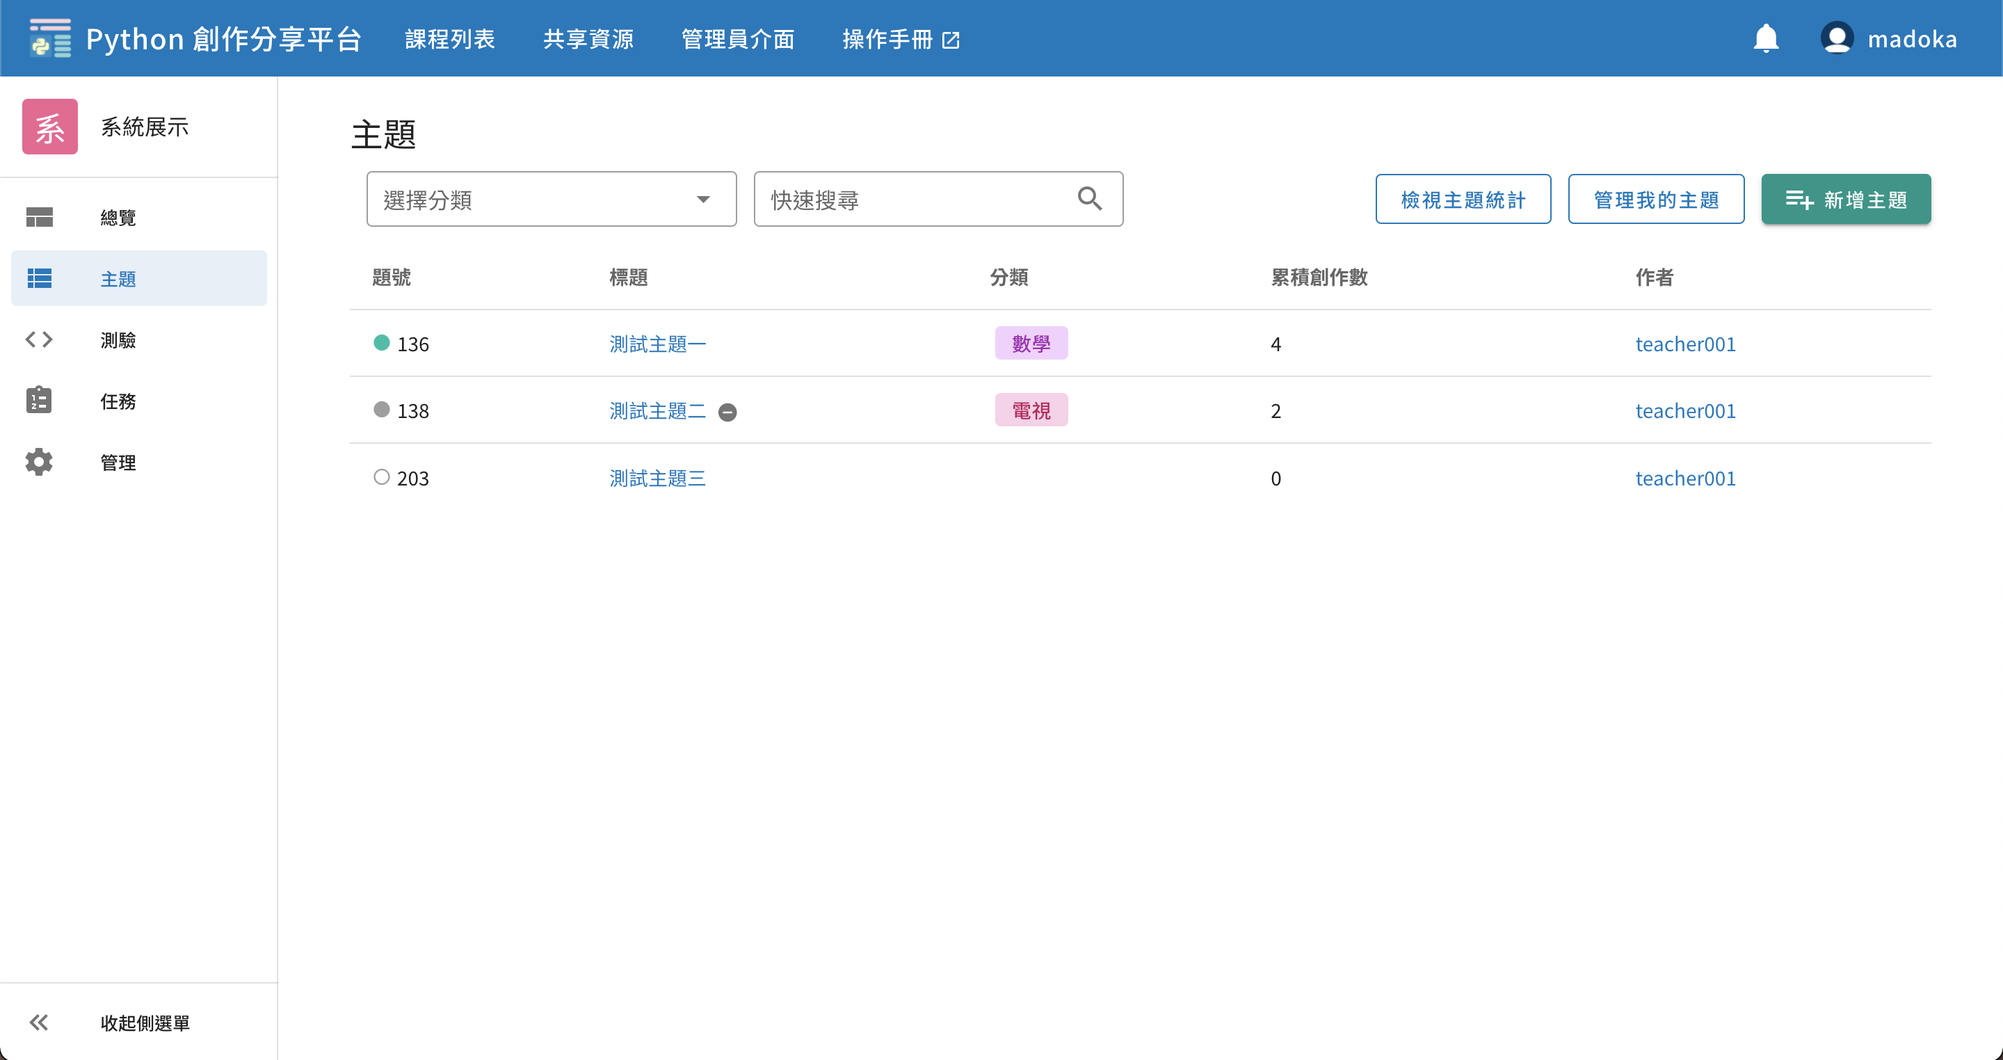
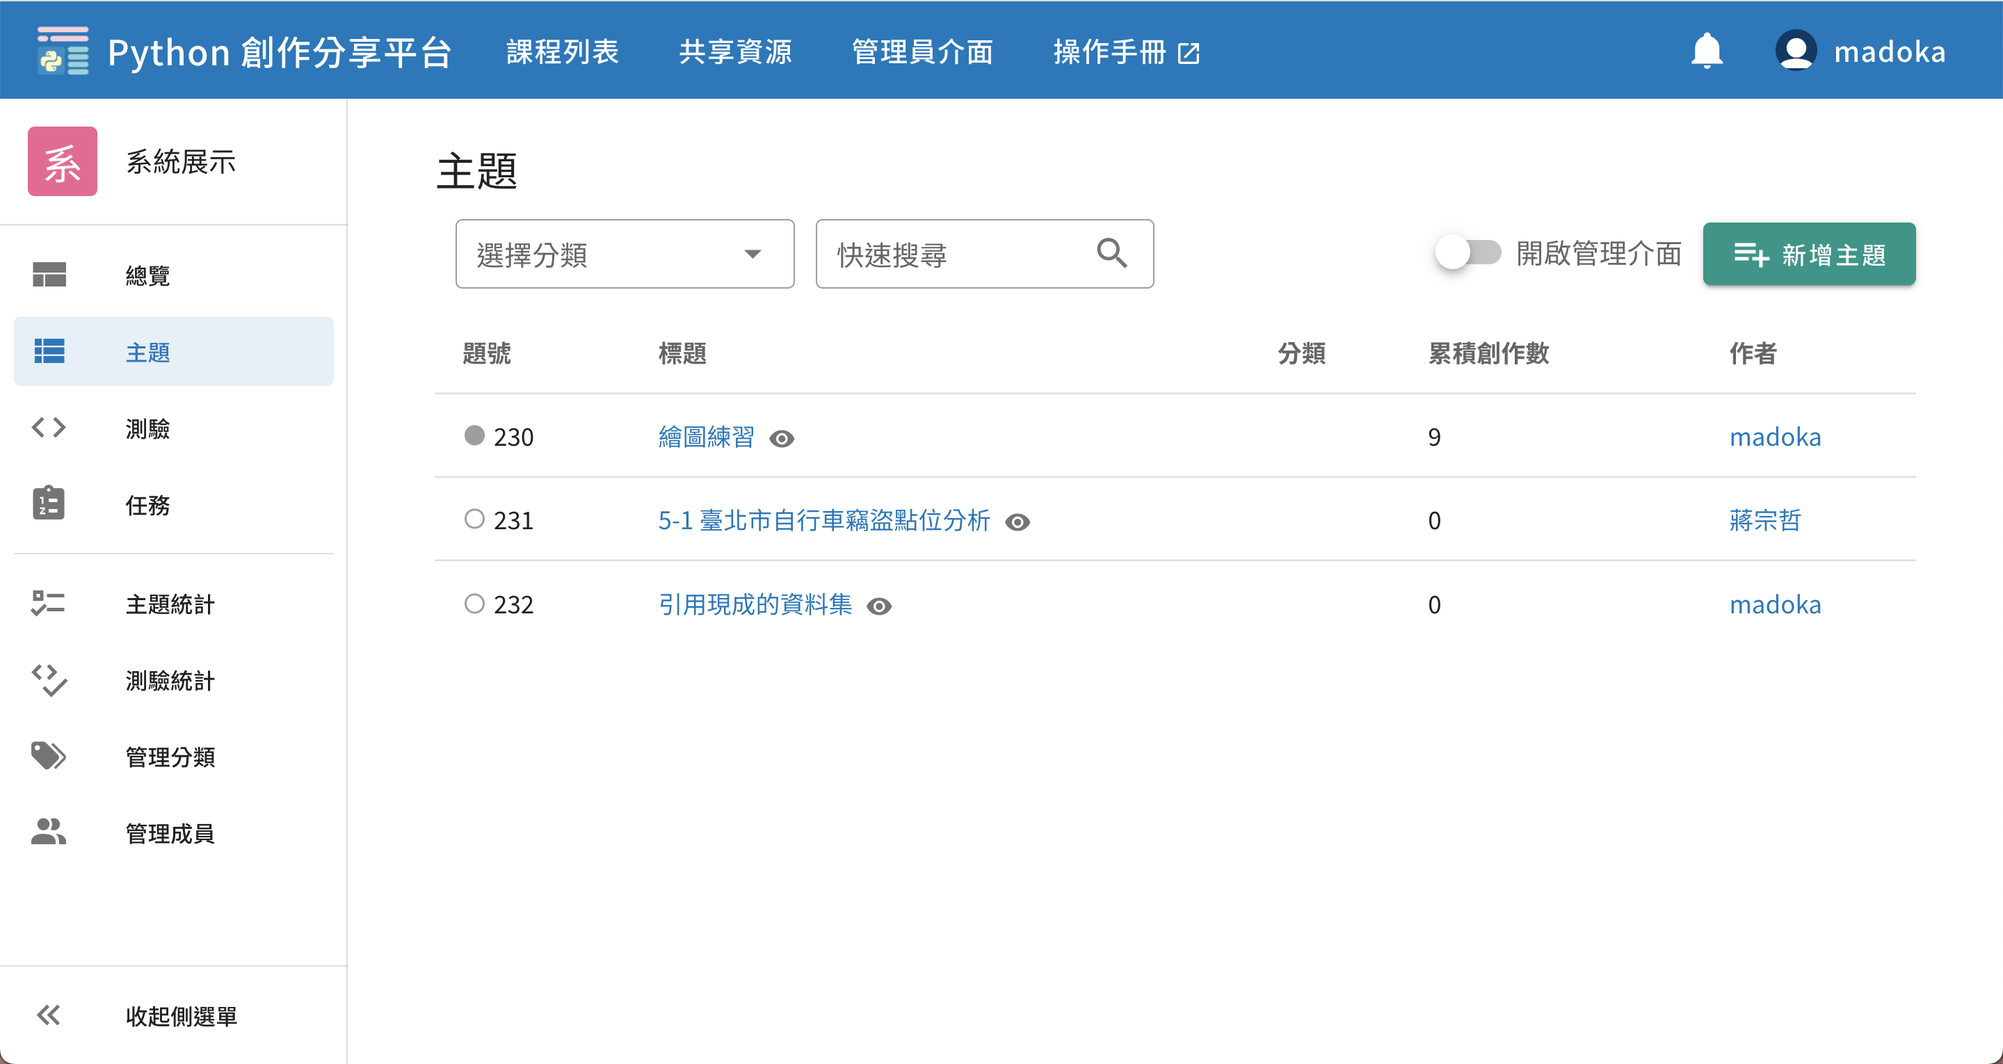
update docs

diff --git a/docs/.vuepress/config.js b/docs/.vuepress/config.js
@@ -38,6 +38,10 @@ module.exports = {
         link: '/guide/',
       },
       {
+        text: '常見問題',
+        link: '/guide/faq',
+      },
+      {
         text: '關於平台',
         link: '/about/'
       },
@@ -45,7 +49,6 @@ module.exports = {
     sidebar: {
       '/guide/': [
         '',
-        'features',
         {
           title: '【教師】',
           collapsable: false,
@@ -65,6 +68,7 @@ module.exports = {
             'student-problem',
           ]
         },
+        'modules',
         'faq',
       ],
     }

diff --git a/docs/guide/teacher-challenge.md b/docs/guide/teacher-challenge.md
@@ -1,40 +1,44 @@
 # 測驗
 
+
+固定輸入輸出的程式練習，線上進行即時批改，類似 Online Judge 的題目。
+
+例如基本的「數學運算」、「字串處理」、「迴圈與陣列」等語法題，教師可以透過創立測驗題型，提供題目的**標準輸入（Standard Input）**和**標準輸出（Standard Output）**，學生上傳程式碼後，系統將會執行學生程式並帶入教師給定的標準輸入，比較學生程式的輸出是否與標準輸出一致，並給予學生批改結果（如 Accepted 輸出正確、Wrong Answer 輸出錯誤等）。
+
+[範例（需登入）](https://pyshare.noj.tw/course/605a1ef29060c7c239d0548a/challenge/333)
+
+
 ## 測驗列表頁面
 
 從課程中的左側導覽列可以找到「測驗」，點擊後即會來到測驗列表的頁面。
 
 ![測驗列表示意圖](../images/challenge-list.png)
 
-右上角有三顆功能按鈕，**僅有該課程的教師可見**
-- 檢視測驗統計：連結到[測驗統計](/guide/teacher-course##測驗統計)頁面，可檢視學生的作答情況。
-- 管理我的測驗：連結到[測驗管理](/guide/teacher-course##測驗管理)頁面，該頁面提供編輯、刪除測驗的功能。
-- 新增測驗：連結到[新增測驗](#新增測驗)頁面。
+右上角有兩個功能按鈕，**僅有該課程的教師可見**：
+- 開啟管理介面：此開關決定是否顯示管理功能的 UI，管理功能請見下方 [測驗管理](#測驗管理)。
+- 新增測驗：連結到新增測驗的頁面，新增功能請見下方 [新增測驗](#新增測驗)。
 
-題號左側有一個小的圓形圖示，是提供給**學生**查看自己該題的作答狀況，有以下三種樣式：
+題號左側有一個圓形圖示，是提供給學生查看自己該題的作答狀況，有以下三種樣式：
 
-| 樣式                          | 意思                       |
-|-----------------------------|--------------------------|
-| <status-icon s="n" />空心     | 尚未作答                   |
-| <status-icon s="a" />綠色實心 | 已作答且結果正確（Accepted） |
-| <status-icon s="w" />紅色實心 | 已作答但結果錯誤           |
+| 樣式                          | 意思                                  |
+|-----------------------------|-------------------------------------|
+| <status-icon s="n" />空心     | 尚未作答                              |
+| <status-icon s="a" />綠色實心 | 已作答且結果正確（Accepted）            |
+| <status-icon s="w" />紅色實心 | 已作答但結果錯誤（Accepted 以外的結果） |
 
 > 關於作答的各種結果（如 Accepted, Wrong Answer）之定義，請閱讀 [提交結果](#提交結果)
 
 
 ## 新增測驗
 
-新增測驗有以下欄位：
-- 測驗名稱：必填，可包含中英文數字等可顯示字元，測驗名稱可重複。
-- 測驗分類：將於測驗列表中顯示此題有哪些分類，使用者可以透過分類搜尋測驗。
-- 顯示狀態：可調整「顯示」或「隱藏」，若設定為隱藏則只有教師可見，學生的測驗列表中將不會出現。
-> ![隱藏測驗示意圖](../images/hidden-challenge.png)
-> 
-> 教師在測驗列表會看見隱藏的測驗，其名稱右邊有圖示，滑鼠懸浮在上會提示此題為「隱藏的測驗」。
-- 發布至共享資源：勾選後，此題會出現於[共享資源](/guide/teacher-share)，開放其他教師複製到他們的課程中使用。
-- 測驗敘述：此題的題目敘述，供作答者閱讀。
-- 預設程式碼：將會自動帶入這段預設程式碼到作 答者的程式編輯區，成為作答者的 Template。注意此段程式碼**可以被作答者自行移除**，無法強制作答者必須包含這段程式碼才可提交作答。
-- 上傳輸入輸出檔：各一個純文字檔，輸入將作為程式的標準輸入，輸出將與程式運行後產生的標準輸出比對來產生作答結果。
+新增測驗有以下欄位（粗體為重要功能，其餘可以略過）：
+1. **測驗名稱**：必填，可包含中英文數字等可顯示字元，不同測驗有相同名稱是允許的。
+2. 測驗分類：將於測驗列表中顯示此題有哪些分類，使用者可以透過分類搜尋測驗。
+3. 顯示狀態：可調整「顯示」或「隱藏」，設定為隱藏則只有教師可見，學生的測驗列表中不會出現。
+4. 發布至共享資源：勾選後，此題會出現於[共享資源](/guide/teacher-share)，開放其他教師複製到他們的課程中使用。
+5. **測驗敘述**：此題的題目敘述，供作答者閱讀。
+6. 預設程式碼：將會自動帶入這段預設程式碼到作答者的程式編輯區，成為作答者的 Template。此段程式碼可以被作答者自行移除，無法強制作答者必須包含這段程式碼才可提交作答。
+7. **上傳輸入輸出檔**：各一個純文字檔，輸入將作為學生程式的標準輸入，輸出將與學生程式產生輸出做比對，以產生作答結果。
 
 ![新增測驗示意圖](../images/create-challenge.jpg)
 
@@ -47,7 +51,7 @@
 
 ![提交作答示意圖](../images/test-submit-challenge.jpg)
 
-作答者撰寫完程式後，可以使用「測試」按鈕來測試程式，測試執行結果**不會保存**。
+作答者撰寫完程式後，可以使用「測試」按鈕來測試程式，測試執行結果不會保存。
 或進行「送出」即提交正式的 Submission，執行結果會存入資料庫，並可隨時在頁面下方的歷史紀錄查看。
 > 目前測試和送出都會使用教師提供的輸入輸出檔，未來預計將測試更改為自訂輸入輸出。
 
@@ -66,8 +70,8 @@
 | Accepted          | 使用者標準輸出與正確答案一致                                                    |
 | Wrong Answer      | 使用者標準輸出與正確答案不一致（系統會忽略輸出於行末的多餘空白、檔案末的多餘換行） |
 | Time Limit Exceed | 程式運行時間超出時限（目前限制 10 秒）                                            |
-| Memory Limit Exceed | 程式運行使用之記憶體超出限制（目前限制 128 MB） ）
-| RunTime Error | 程式有語法錯誤或執行時發生例外情形 |
+| Memory Limit Exceed | 程式運行使用之記憶體超出限制（目前限制 128 MB）
+| Runtime Error | 程式有語法錯誤或執行時發生例外情形 |
 
 另外，目前輸出大小限制為 4 KB，若超過會直接顯示以下錯誤訊息於「錯誤訊息」中：
 ```
@@ -104,3 +108,12 @@ while True:
 ```
 
 
+## 測驗管理
+
+開啟右上角「管理我的測驗」後，將會顯示管理相關功能的 UI，包含四個按鈕：
+- 隱藏/顯示：點擊後將切換此測驗的顯示狀態，設為隱藏或顯示。
+- 編輯：點擊後進入編輯頁面。
+- 複製：點擊後會詢問您欲將此測驗複製至哪個課程，亦可選擇當前課程。
+- 刪除：點擊後會詢問您是否刪除此測驗，確認刪除動作後即刪除。
+
+![測驗列表示意圖](../images/manage-challenge.png)

diff --git a/docs/guide/teacher-problem.md b/docs/guide/teacher-problem.md
@@ -1,15 +1,23 @@
 # 主題與創作
 
+
+可附帶資料集的主題/留言式討論區，留言中支援提交可讀取資料集的程式碼，系統會自動執行並輸出文字或圖表。
+
+例如「檔案處理」、「資料處理統計」、「資料視覺化」等較難固定正確答案的開放題型，教師可以透過創立主題題型，提供資料集（CSV、文字檔、圖片檔或其他），學生撰寫的程式可讀寫檔案。
+
+另外，學生亦可發表主題。
+
+[範例（需登入）](https://pyshare.noj.tw/course/605a1ef29060c7c239d0548a/problem/230)
+
 ## 主題列表頁面
 
 從課程中的左側導覽列可以找到「測驗」，點擊後即會來到測驗列表的頁面。
 
-![測驗列表示意圖](../images/problem-list.png)
+![主題列表示意圖](../images/problem-list.png)
 
-右上角有三顆功能按鈕，**僅有該課程的教師可見**
-- 檢視主題統計：連結到[主題統計](/guide/teacher-course##主題統計)頁面，可檢視學生的作答情況。
-- 管理我的主題：連結到[主題管理](/guide/teacher-course##主題管理)頁面，該頁面提供編輯、刪除主題的功能。
-- 新增主題：連結到[新增主題](#新增主題)頁面。
+右上角有兩個功能按鈕，**僅有該課程的教師可見**：
+- 開啟管理介面：此開關決定是否顯示管理功能的 UI，管理功能請見下方 [主題管理](#主題管理)。
+- 新增主題：連結到新增主題的頁面，新增功能請見下方 [新增主題](#新增主題)。
 
 題號左側有一個小的圓形圖示，是提供給**學生**查看自己該題的作答狀況，有以下四種樣式：
 
@@ -25,24 +33,21 @@
 
 ## 新增主題
 
-新增主題有以下欄位：
-- 主題名稱：必填，可包含中英文數字等可顯示字元，主題名稱可重複。
-- 主題分類：將於主題列表中顯示此題有哪些分類，使用者可以透過分類搜尋主題。
-- 顯示狀態：可調整「顯示」或「隱藏」，若設定為隱藏則只有作者和教師可見，學生的主題列表中將不會出現。
-> ![隱藏測驗示意圖](../images/hidden-problem.png)
-> 
-> 自己在測驗列表會看見隱藏的測驗，其名稱右邊有圖示，滑鼠懸浮在上會提示此題為「隱藏的測驗」。
-- 允許主題下每人可發表多個創作：預設使用者只能在一主題下發表一個創作，若勾選此選項則移除此限制。
-- 發布至共享資源：勾選後，此題會出現於[共享資源](/guide/teacher-share)，開放其他教師複製到他們的課程中使用。
-- 主題敘述：此題的題目敘述，供作答者閱讀。
-- 預設程式碼：使用者在新增創作時，系統將會自動帶入這段預設程式碼到程式編輯區，成為使用者的 Template。注意此段程式碼**可以被使用者自行移除**，無法強制使用者必須包含這段程式碼才可提交創作。
-- 上傳附件：可上傳任意數量的檔案，這些檔案能夠在創作中讀取，讀取附件的路徑為**當前目錄**。
+新增主題有以下欄位（粗體為重要功能，其餘可以略過）：
+1. **主題名稱**：必填，可包含中英文數字等可顯示字元，不同主題有相同名稱是允許的。
+2. 主題分類：將於主題列表中顯示此題有哪些分類，使用者可以透過分類搜尋主題。
+3. 顯示狀態：可調整「顯示」或「隱藏」，設定為隱藏則只有教師和作者可見，學生的測驗列表中不會出現。
+4. 允許主題下每人可發表多個創作：預設使用者只能在一主題下發表一個創作，若勾選此選項則移除此限制。
+5. 發布至共享資源：勾選後，此題會出現於[共享資源](/guide/teacher-share)，開放其他教師複製到他們的課程中使用。
+6. **主題敘述**：此題的題目敘述，供作答者閱讀。
+7. 預設程式碼：使用者在新增創作時，系統將會自動帶入這段預設程式碼到程式編輯區，成為使用者的 Template。此段程式碼可以被使用者自行移除，無法強制使用者必須包含這段程式碼才可提交創作。
+8. **上傳附件**：可上傳任意數量的檔案，這些檔案能夠在創作的程式中讀取，讀取附件的路徑為**當前目錄**。
 
 ![新增主題示意圖](../images/create-problem.jpg)
 
 ## 學生的主題
 
-在平台中，學生亦可建立主題，例如可應用於專題報告的場景，學生新增主題的方式與老師大致相同，但沒有「允許主題下每人可發表多個創作」以及「發布至共享資源」這兩個選項，詳細可以閱讀學生視角的[發表主題](/guide/student-problem)
+在平台中，學生亦可建立主題，例如可應用於專題報告的場景，學生新增主題的方式與老師大致相同，但沒有「允許主題下每人可發表多個創作」以及「發布至共享資源」這兩個選項，詳細可以閱讀學生視角的[發表主題](/guide/student-problem)。
 
 另外，學生若發表**隱藏**的主題，老師亦可在主題列表中看見。
 
@@ -62,7 +67,7 @@
 
 創作結果包含三個部分：
 1. 標準輸出，使用者的程式標準輸出（Standard Output）
-2. 輸出檔案，所有使用者在程式寫檔的檔案，圖片會提供縮圖與瀏覽工具，其他檔案類型則需要下載查看。
+2. 輸出檔案，使用者在程式寫檔的檔案，圖片會提供縮圖與瀏覽工具，其他檔案類型則需要下載查看。
 3. 錯誤訊息，使用者的程式標準錯誤（Standard Error）
 
 **請注意使用 `matplotlib.pyplot` 時應使用 `savefig()` 而非 `show()` 來產出圖表**
@@ -90,6 +95,17 @@
 | Accepted | 教師核可了創作        |
 | Rejected | 教師駁回了創作        |
 
-點進學生的創作後，即可以選單選擇欲批改的狀態，可以隨時更改，亦可批改任何版本的創作程式。
+點進學生的創作後，即可在選單選擇欲批改的狀態，可以隨時更改，亦可批改任何版本的創作程式。
 
-![批改創作示意圖](grade-creation.png)
+![批改創作示意圖](../images/grade-creation.png)
+
+
+## 主題管理
+
+開啟右上角「管理我的主題」後，將會顯示管理相關功能的 UI，包含四個按鈕：
+- 隱藏/顯示：點擊後將切換此主題的顯示狀態，設為隱藏或顯示。
+- 編輯：點擊後進入編輯頁面。
+- 複製：點擊後會詢問您欲將此主題複製至哪個課程，亦可選擇當前課程。
+- 刪除：點擊後會詢問您是否刪除此主題，確認刪除動作後即刪除。
+
+![主題列表示意圖](../images/manage-problem.png)

diff --git a/docs/guide/README.md b/docs/guide/README.md
@@ -1,7 +1,55 @@
-# 簡介
+# 功能簡介
+
+Python 創作分享平台是一個以**課程**為單位，輔助教師進行 Python 程式設計相關教學的網頁平台。
+
+## 零、簡介影片
 
 若您是第一次使用 Python 創作分享平台，強烈建議您先觀賞 3 分鐘的功能簡介影片。
 
 <youtube-iframe />
 
 
+## 一、程式設計題目
+
+在程式設計的教學中通常有作業或評量以讓學生實際上機練習，而這些練習也有一些缺點，如批改成本高、學生互動機會少等。
+
+此平台提供了兩種題型，致力於解決以上問題：
+
+### 1. 測驗
+
+固定輸入輸出的程式練習，線上進行即時批改，類似 Online Judge 的題目。
+
+例如基本的「數學運算」、「字串處理」、「迴圈與陣列」等語法題，教師可以透過創立測驗題型，提供題目的**標準輸入（Standard Input）**和**標準輸出（Standard Output）**，學生上傳程式碼後，系統將會執行學生程式並帶入教師給定的標準輸入，比較學生程式的輸出是否與標準輸出一致，並給予學生批改結果（如 Accepted 輸出正確、Wrong Answer 輸出錯誤等）。
+
+[範例（需登入）](https://pyshare.noj.tw/course/605a1ef29060c7c239d0548a/challenge/333)
+
+[了解更多](/guide/teacher-challenge)
+
+### 2. 主題
+
+可附帶資料集的主題/留言式討論區，留言中支援提交可讀取資料集的程式碼，系統會自動執行並輸出文字或圖表。
+
+例如「檔案處理」、「資料處理統計」、「資料視覺化」等較難固定正確答案的開放題型，教師可以透過創立主題題型，提供資料集（CSV、文字檔、圖片檔或其他），學生撰寫的程式可讀寫檔案。
+
+[範例（需登入）](https://pyshare.noj.tw/course/605a1ef29060c7c239d0548a/problem/230)
+
+[了解更多](/guide/teacher-problem)
+
+---
+
+在平台中，提交的程式中可使用第三方的 Python 函式庫，請見[第三方函式庫列表](/guide/modules)。
+
+
+## 二、共享資源
+
+讓學生、教師可分享「資料集」，可直接複製到課程內的主題中。
+
+教師另可分享「主題」與「測驗」，同樣地可直接複製到課程中，幫助教師快速搭建課程
+
+
+## 三、課程數據統計
+
+記錄學生於測驗、主題的作答數據，協助教師掌握學生進度，或作為評量成績參考。
+
+
+以上內容您可以在【教師】或【學生】的文件中閱讀詳細的使用方法。

diff --git a/docs/guide/teacher-course.md b/docs/guide/teacher-course.md
@@ -1,21 +1,35 @@
 # 課程管理
 
-## 測驗統計
-
-⚠ 頁面建立中 ⚠
-
-
-## 測驗管理
-
-⚠ 頁面建立中 ⚠
-
-
 ## 主題統計
 
-⚠ 頁面建立中 ⚠
+點入左側欄的主題統計進入，可以瀏覽學生在主題與創作相關的數據，亦可匯出 CSV。
+
+![主題統計示意圖](../images/problem-stats.png)
 
 
-## 主題管理
+## 測驗統計
 
-⚠ 頁面建立中 ⚠
+點入左側欄的測驗統計進入，可以瀏覽學生在測驗作答相關的數據，亦可匯出 CSV。
+
+方塊上的數字代表繳交程式的次數，綠色是通過，紅色是未通過，其餘為未作答。
+
+![測驗統計示意圖](../images/challenge-stats.png)
+
+點擊方塊可以瀏覽學生詳細的作答記錄，可檢視每次作答記錄的程式碼。
+
+![測驗統計詳細示意圖](../images/challenge-stats-detail.png)
+
+
+## 管理分類
+
+透過此頁面管理供「主題」、「測驗」使用的分類。
+
+![測驗統計示意圖](../images/manage-tag.png)
+
+
+## 管理成員
+
+透過此頁面新增、刪除學生，亦可匯出學生名單。
+
+![測驗統計示意圖](../images/manage-student.png)
 

diff --git a/docs/guide/teacher-quick-start.md b/docs/guide/teacher-quick-start.md
@@ -22,7 +22,7 @@
 ![Screenshot - NewCourse](../images/new-course.png)
 
 ## 四、新增學生入口
-進入新開設的課程，從左方導覽列進入「管理」，選擇「管理成員」，點擊右上角「新增學生」按鈕（亦可從「總覽」頁面中新增學生）
+進入新開設的課程，從左方導覽列進入「管理成員」，點擊右上角「新增學生」按鈕。
 
 ![Screenshot - Manage](../images/manage.png)
 

diff --git a/docs/guide/faq.md b/docs/guide/faq.md
@@ -9,6 +9,10 @@
 
 目前僅支援輸入輸出各一個檔案，若需要使用多測資，請參考[測驗 - 多測資](teacher-challenge.md#在測驗題型使用多筆測資)。
 
+## 請問平台上的程式可以使用哪些第三方函式庫
+
+請見[第三方函式庫列表](/guide/modules)。
+
 
 ## 錯誤：「執行失敗: 輸出大小超過系統限制，無法評測！」
 

diff --git a/docs/guide/modules.md b/docs/guide/modules.md
@@ -1,0 +1,14 @@
+# 第三方函式庫列表
+
+```
+matplotlib
+scipy
+numpy
+pandas
+seaborn
+pygal
+sklearn
+openpyxl
+```
+
+若需要其他函式庫供教學使用，請來信 [pyshare@noj.tw](mailto:pyshare@noj.tw)。
